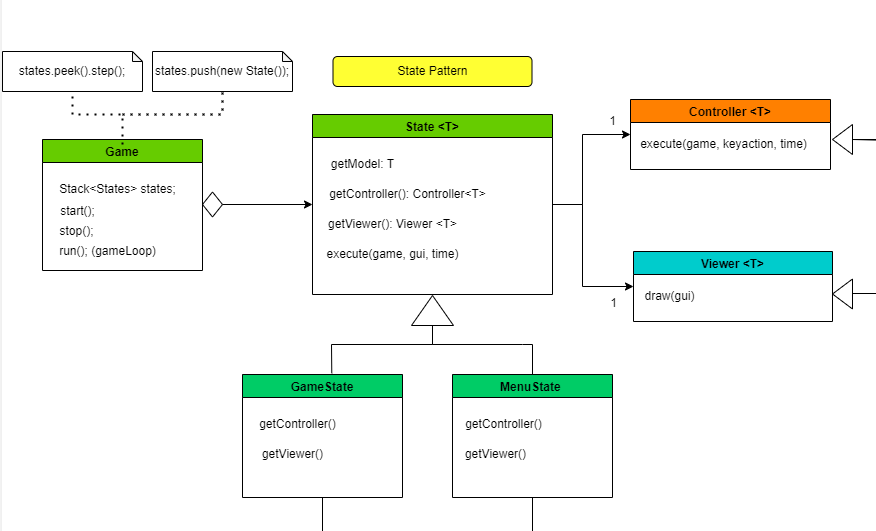
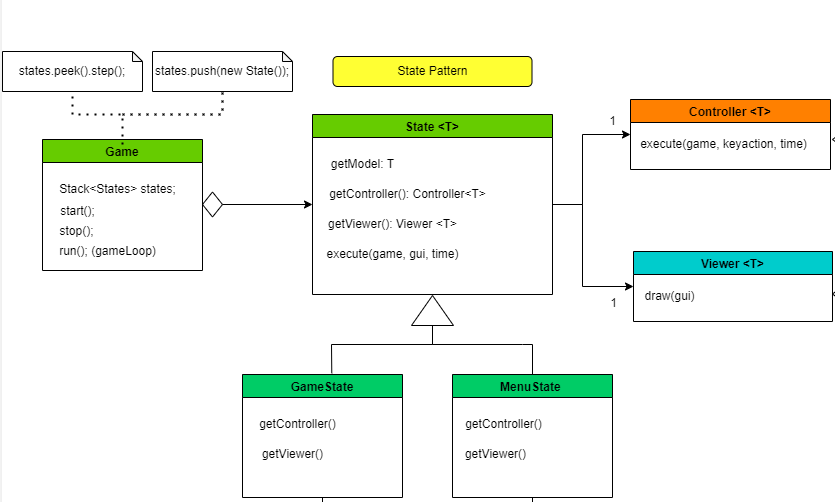
Added State Pattern to final report

diff --git a/docs/Report.md b/docs/Report.md
@@ -17,27 +17,49 @@ This project was developed by Fábio Sá (up202007658@edu.fe.up.pt), Pedro Barbe
 - **Game Logic** - We have most of the code logic behind most of the planned features (about the game flow) in a good position.
 - **Menus** - Basic Layout for menus, including Main, Level Select and Pause.
 - **States** - Stack Structure to allow simple application flow.
-- **Pause Menu** Currently on Main Menu START, our intention is for the user to be able to take a break and pick off right where he left the game.
+- **Pause Menu** The user is able to take a break and pick off right where he left the game, or simply restart the current level.
 - **Move** - Murphy will move according to the arrow key pressed by the user (up, down, left, right)
 - **Eat** - The player can make Murphy eat an adjacent block without moving into it by pressing CTRL + ARROW
 - **Unit Collision** - Murphy can't move against walls, Rocks and Scissors can only move if there's no block in front of them.
-- **Specific Behavior** - Rocks which can't be moved act as Walls and Scissors rotate when moving isn't possible.
+- **Specific Behavior** - Rocks which can't be moved act as Walls and Scissors rotate when moving forwards isn't possible.
 - **Infotron Counter** - Murphy needs a certain number of Infotrons to beat each level
-- **Fall** - Rocks will fall if there's no supporting block underneath them, also they can fall sideways (right/left) it the block
+- **Fall** - Rocks will fall if there's no supporting block underneath them, also they can fall sideways (right/left) if the block
     underneath them is also a Rock.
 - **Restart** - Allows the user to restart the game at any given point.
 - **Sounds** - Different sounds for some animations (for example, when murphy captures an Infotron).
-- 
-### PLANNED FEATURE LEFT OUT
+- **Sprites** - Our different game elements are drawn using multiple 2D arrays of chars (or a bitmap), in order to allow the design
+-   of more complex images.
 
-- **Push** - Murphy can push Rocks which can move
-- **Explode** - Murphy explodes if he gets caught by a Scissor, and both Murphy and the Scissor explode when crushed by a Rock
-
-### MAIN MENU AND SELECT LEVEL MENU DEMONSTRATION
-![alt-text](docs/Gifs/MainMenu.gif)
 
 ------
 ### DESIGN
+
+#### APPLICATION FLOW BETWEEN THE DIFFERENT MENUS 
+
+##### Problem in context
+
+There was the need to switch between levels, menus and splash menus, each with their own respective controller and viewer.
+
+##### The Pattern
+
+In order to guarantee our application to have a good flow, we implemented the [**State Pattern**](https://refactoring.guru/design-patterns/state). This pattern allows us to keep state-specific behaviors inside different subclasses that represent different states. We can switch to a different state of the application by pushing another implementation to the stack (i.e., another subclass).
+It also provides a simple way to implement some features, for example the Pause Menu, in which the current state is the game one, we simply push a PauseMenuState, and then when the user wants to return to the game, simply pop the stack.
+This pattern enabled us to address the identified problems because it allowed us to keep the game states in a stack located in the Game class, eliminating the need to use switch operators, and making the change in state much easier to handle.
+
+### IMPLEMENTATION
+
+![StatePatternUML](Images/State_Pattern.png)
+
+Some classes where we implemented this pattern are the following:
+
+- [State](../src/main/java/com/g801/supaplex/States/State.java)
+- [GameState](../src/main/java/com/g801/supaplex/States/GameState.java)
+- [MainMenuState](../src/main/java/com/g801/supaplex/States/MenuState.java)
+
+### CONSEQUENCES
+
+Localizes and partitions behavior for different states.
+Makes state transitions easier and more explicit.
 
 #### REPETITION OF OBJECTS
 
@@ -183,8 +205,6 @@ public Integer xMax;
 ![alt-text](src/main/resources/Report/other/tests.png)
 
 ### SELF-EVALUATION
-
-#### Example:
 
 - Fábio Sá: 33.(3) %
 - Pedro Barbeira: 33.(3) %

diff --git a/README.md b/README.md
@@ -52,8 +52,6 @@ This project was developed by Fábio Sá (up202007658@edu.fe.up.pt), Pedro Barbe
 
 ### SELF-EVALUATION
 
-#### Example:
-
 - Fábio Sá: 33.(3) %
 - Pedro Barbeira: 33.(3) %
 - José Diogo: 33.(3) %
